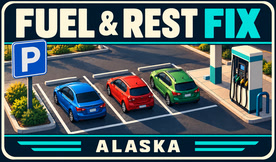
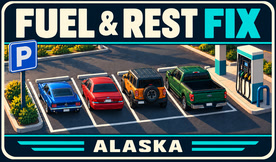
Apply selected four-Ford artwork to all map fixes and release r6 metadata
Use M2D for seven map-labelled combined fuel/rest presets, preserve exact selected ATS Expansion artwork, and advance combined CLI/description defaults to r6. Keep legacy fuel r2 and the existing courier r1 archive unchanged; J3B remains a tentative favorite.

Prepare a metadata-only eight-mod handoff without touching live profiles or inputs. Root and independent Luna checks confirm all map gameplay resources match r5 and courier r1 is byte-identical. Preserve previous outputs and original generation provenance.

Verification: 56 focused metadata/workflow/CLI tests pass; seven JPEGs decode and validate; bundle CRC/SHA/inventory and documentation QA pass. Gameplay prices, rest and deliveries remain manual tests.

diff --git a/src/ats_road_trip/cli.py b/src/ats_road_trip/cli.py
@@ -86,7 +86,7 @@ def parser() -> argparse.ArgumentParser:
         bulk.add_argument('--game-dir', help='ATS installation; otherwise ATS_GAME_DIR or detected Steam location')
         bulk.add_argument('--map-name', help='Short map name; inferred for known map families')
         if name != 'analyze-map':
-            bulk.add_argument('--revision', type=int, default=2 if name == 'generate-map-fuel' else 5)
+            bulk.add_argument('--revision', type=int, default=2 if name == 'generate-map-fuel' else 6)
         bulk.add_argument('--run-id', help='Run folder timestamp YYYY-MM-DD_HH-MM-SS (Europe/Warsaw)')
         bulk.add_argument('--dependency', action='append', default=[], help='Explicit additional package, lowest priority first')
         bulk.add_argument('--petrol-reference', default=DEFAULT_REFERENCE,

diff --git a/tests/test_cli.py b/tests/test_cli.py
@@ -152,7 +152,7 @@ company_def : .city { city: test_city prefab: alias }
         options = parser().parse_args(['generate-map-fix', 'source.scs', '--experimental',
                                        '--processor', 'rest', '--processor', 'fuel',
                                        '--rest-radius', '750'])
-        self.assertEqual(options.revision, 5)
+        self.assertEqual(options.revision, 6)
         self.assertEqual(options.processor, ['rest', 'fuel'])
         self.assertEqual(options.rest_radius, 750)
         result = {'status': 'generated', 'output': 'generated.scs',

diff --git a/src/ats_road_trip/bulk_run.py b/src/ats_road_trip/bulk_run.py
@@ -180,7 +180,7 @@ def _write_audit(path: Path, audit: dict) -> None:
 
 
 def generate_map_fix(source, *, processors=(Processor.FUEL,), game_dir=None,
-                     map_name=None, revision=5, run_id=None, extractor=None,
+                     map_name=None, revision=6, run_id=None, extractor=None,
                      dependency: list[str] = (), icon=None,
                      petrol_reference=DEFAULT_REFERENCE, rest_radius=1000,
                      _legacy_fuel=False, _analysis_only=False) -> dict:

diff --git a/src/ats_road_trip/mod_descriptions.py b/src/ats_road_trip/mod_descriptions.py
@@ -46,7 +46,7 @@ def map_description(
     map_name: str,
     topics: tuple[str, ...] = ('fuel', 'rest'),
     *,
-    version: str = '1.61-r5-experimental',
+    version: str = '1.61-r6-experimental',
     rest_radius: int = 1000,
 ) -> str:
     """Describe a map package without claiming untested gameplay results."""

diff --git a/docs/project/CURRENT_STATE.md b/docs/project/CURRENT_STATE.md
@@ -10,9 +10,9 @@ The separate [Practical Courier Jobs generator](../reference/PRACTICAL_COURIER_G
 
 The [overnight delivery ZIP](../reference/OVERNIGHT_TEST_BATCH_1_61_R4.md) contains **eight mods**: seven source-specific **r4** map/connector fixes and separate Practical Courier Jobs **r0**. Map package totals are **2,331** added car fuel interactions, **1,254** car rest areas, **46** missing petrol fields and **46** preserved classified aliases. Overlapping map sectors mean these are per-package totals. OtherMaps is price-only. Each fix replaces its older version directly above its own source.
 
-**246 authored tests pass** after the metadata implementation. The overnight r4/r0 delivery had 233 passing tests. Its independent checks preserve original source nodes/services, unchanged r2 fuel payloads, rest geometry/action bytes, actual source context tags and non-petrol country fields. The winning-stack graph passes for **2,202** surviving generated truck targets, with **3,518** reciprocal car services across 583 relevant effective paths. Generated namespaces have no conflicting paths/units. WCE's 380 Company records are byte-identical and all 14 company-parent aliases retain classification. Input identities and shared source versions are unchanged; ZIP CRC/checksums pass. [Batch evidence and installation/test instructions](../reference/OVERNIGHT_TEST_BATCH_1_61_R4.md), [TASK-0024](../tasks/done/TASK-0024-deliver-overnight-test-mod-batch.md).
+The last full authored suite passed **246 tests** after the r5/r1 metadata implementation. The overnight r4/r0 delivery had 233 passing tests. Its independent checks preserve original source nodes/services, unchanged r2 fuel payloads, rest geometry/action bytes, actual source context tags and non-petrol country fields. The winning-stack graph passes for **2,202** surviving generated truck targets, with **3,518** reciprocal car services across 583 relevant effective paths. Generated namespaces have no conflicting paths/units. WCE's 380 Company records are byte-identical and all 14 company-parent aliases retain classification. Input identities and shared source versions are unchanged; ZIP CRC/checksums pass. [Batch evidence and installation/test instructions](../reference/OVERNIGHT_TEST_BATCH_1_61_R4.md), [TASK-0024](../tasks/done/TASK-0024-deliver-overnight-test-mod-batch.md).
 
-**Observed locally — metadata refresh, 2026-10-18:** the [r5 map / r1 courier refresh](../reference/MOD_METADATA_REFRESH_1_61_R5.md) is a new eight-package handoff for icons, player descriptions, version labels and reports. The user selected the M2 navy map icon with a pump, parking symbol and three cars. The user confirms the Windows-local HTML gallery now works after both Markdown and native gallery failures. J3B is the courier favorite, with reservations about the key fob; the final choice is pending and J1B remains the existing provisional preset. New M2C/M2D proposals correct the Victoria to 2006 and add Bronco 2024 in the four-car option; no new package or default replacement is included in that round. Root and independent Luna review confirm every gameplay resource path and byte is identical to r4/r0. Old outputs are preserved. [TASK-0025](../tasks/active/TASK-0025-refresh-mod-icons-and-player-descriptions.md) and [ADR-0013](../architecture/decisions/ADR-0013-topic-artwork-and-player-descriptions.md) track the change.
+**Documented — user artwork choice, 2026-10-18:** the [r6 map / r1 courier handoff](../reference/MOD_METADATA_REFRESH_1_61_R6.md) applies the selected M2D navy icon, with pump, parking symbol and four Ford cars, to all seven map presets. Earlier three-car M2 and corrected M2C alternatives remain [r5 artwork history](../reference/MOD_METADATA_REFRESH_1_61_R5.md). The user confirmed both corrected previews display in chat and appreciated the Windows-local HTML gallery. J3B is the courier favorite, with reservations about the key fob; no final courier swap was approved, so the exact existing J1B-based r1 archive is reused. R6 changes map artwork, metadata and revision only; root and independent Luna checks confirm gameplay paths and bytes match the accepted r5 packages, while the full courier r1 archive is byte-identical. R5/r1 gameplay paths and bytes were independently verified identical to r4/r0. Old outputs remain preserved. [TASK-0025](../tasks/active/TASK-0025-refresh-mod-icons-and-player-descriptions.md) and [ADR-0013](../architecture/decisions/ADR-0013-topic-artwork-and-player-descriptions.md) track the change.
 
 Initial broad rest runs exposed original irregular shapes and older exact trigger layouts. Those failed attempts remain ignored and uninstalled. Supported source layouts now retain raw geometry/flags and change only validated action references; the single irregular ATS truck placement uses a disclosed conservative proximity fallback. [ADR-0012](../architecture/decisions/ADR-0012-preserve-irregular-source-rest-geometry.md) records that implementation decision, distinct from the user's boundary approximation.
 
@@ -20,7 +20,7 @@ Initial broad rest runs exposed original irregular shapes and older exact trigge
 
 ## Tooling and scope
 
-- `generate-map-fix SOURCE --processor fuel --processor rest --experimental` composes selected topics and defaults to revision **5**. Either topic can run alone. Combined outputs use the seven map-specific icons by default; rest-only packages have no default icon. Each fix replaces its source's earlier fix; independently generated sector overrides do not merge. [Processor guide](../reference/COMPATIBILITY_PROCESSORS.md).
+- `generate-map-fix SOURCE --processor fuel --processor rest --experimental` composes selected topics and defaults to revision **6**. Either topic can run alone. Combined outputs use the seven M2D map-specific icons by default; rest-only packages have no default icon. Each fix replaces its source's earlier fix; independently generated sector overrides do not merge. [Processor guide](../reference/COMPATIBILITY_PROCESSORS.md).
 - `generate-courier-eligibility --config docs/examples/mustang-practical-courier.toml --experimental` defaults to revision **1** and accepts an explicit `--icon` override. Its default icon and description are separate from map fixes. [Courier guide](../reference/PRACTICAL_COURIER_GENERATOR.md).
 - Rest adds car permission locally when no original car area is found within **1,000 game-world XZ units**. The source-sector/halo search is bounded; the user accepts extra permissions from missed boundary neighbors. Shared actions and original geometry remain unchanged; unsupported source edits block publication.
 - `generate-map-fuel` retains its fuel-only revision-2 default. Positive petrol values use lower same-unit provenance or the explicit stock-game ratio, preserving diesel/other fields. [ADR-0007](../architecture/decisions/ADR-0007-repair-missing-petrol-prices.md).
@@ -31,7 +31,7 @@ Initial broad rest runs exposed original irregular shapes and older exact trigge
 
 **Documented — user reports, 2026-10-17/18:** the same-position Helena sample 2 works for both truck and car. Broad Canadian car access works, but the user observed invalid quantity/zero-price displays. [Gameplay evidence](../reference/VALIDATION_RESULTS.md). Finite positive country definitions do not establish repaired UI or billing.
 
-**Unknown:** actual r4/r5 car/truck fuel purchases, quantities/payment, garage behavior, rest prompts/fatigue recovery, save/reload and r0/r1 courier offers/completed deliveries. Metadata checks cannot settle these gameplay questions. [Manual checklist](../reference/MANUAL_TEST_CHECKLIST.md) and [TASK-0007](../tasks/active/TASK-0007-validate-courier-and-fuel-experiments-in-game.md) remain open. The user is testing independently; remind them at package handoffs. Existing one-time reminder: **2026-10-18 18:00 Europe/Warsaw**.
+**Unknown:** actual r4/r5/r6 car/truck fuel purchases, quantities/payment, garage behavior, rest prompts/fatigue recovery, save/reload and r0/r1 courier offers/completed deliveries. Metadata checks cannot settle these gameplay questions. [Manual checklist](../reference/MANUAL_TEST_CHECKLIST.md) and [TASK-0007](../tasks/active/TASK-0007-validate-courier-and-fuel-experiments-in-game.md) remain open. The user is testing independently; remind them at package handoffs. Existing one-time reminder: **2026-10-18 18:00 Europe/Warsaw**.
 
 Each map fix belongs directly above its own source. [Confirmed source priority](../reference/CONNECTOR_FUEL_FIXES.md) places ProMods above Western Canada and includes both connectors. Generation dependencies and installation order are separate checks. Two shown branding/traffic mods remain unsupplied and uninspected.
 

diff --git a/assets/mod-icons/PROMPTS_M2D_SELECTED.md b/assets/mod-icons/PROMPTS_M2D_SELECTED.md
@@ -1,0 +1,56 @@
+# Selected M2D map-label prompts
+
+Created and inspected: 2026-10-18. User explicitly selected M2D with four Ford vehicles and confirmed both corrected previews display in chat; the local HTML gallery also works. The selection replaces the initial M2 preset for combined map fixes. Courier J3B remains a favorite with a key-fob reservation, not approved; J1B-based r1 remains unchanged.
+
+Built-in imagegen, six footer-only edit requests below. Input: inspected `local_outputs/work/2026-10-18_16-10-22/artwork/m2d-4-fords-original.png`. ATS Expansion reuses the exact selected export. Other map labels are individual reviewed edits. Large originals and machine provenance: ignored `local_outputs/work/2026-10-18_16-16-22/artwork/`. Final FFmpeg export performs format/downscale only (276x162, Lanczos, JPEG quality 2, yuvj444p). Runtime generation reuses tracked JPEG bytes without LLM calls.
+
+Original four-car prompt and model-year sources: [corrected Ford prompts](PROMPTS_V3.md).
+
+## REFORMA
+
+Export: `map-compatibility/reforma.jpg`.
+
+```text
+Use case: text-localization. Edit target: the supplied user-selected M2D finished navy fuel/parking mod illustration. Change ONLY its bottom footer map label from "ATS EXPANSION" to exactly "REFORMA". Where slash appears in requested label, render two centered lines instead of slash. Preserve all other artwork: headline "FUEL & REST FIX", navy/cream/teal palette, frame, pump, blue P sign, station location, elevated rear camera and four parking bays with blue 1967 Mustang, red 2006 Crown Victoria sedan, orange 2024 Bronco with rear spare tire, green 2023 F-150 pickup. Keep all four cars facing the far/front ends of the bays, wheel stops there only and clear reversing space behind cars. Do not change, remove, rotate or add vehicles or objects. Preserve landscape 276:162 aspect and safe margins. Footer bold and legible at 276x162. No added words or other changes.
+```
+
+## PROMODS CANADA
+
+Export: `map-compatibility/promods-canada.jpg`.
+
+```text
+Use case: text-localization. Edit target: the supplied user-selected M2D finished navy fuel/parking mod illustration. Change ONLY its bottom footer map label from "ATS EXPANSION" to exactly "PROMODS CANADA". Where slash appears in requested label, render two centered lines instead of slash. Preserve all other artwork: headline "FUEL & REST FIX", navy/cream/teal palette, frame, pump, blue P sign, station location, elevated rear camera and four parking bays with blue 1967 Mustang, red 2006 Crown Victoria sedan, orange 2024 Bronco with rear spare tire, green 2023 F-150 pickup. Keep all four cars facing the far/front ends of the bays, wheel stops there only and clear reversing space behind cars. Do not change, remove, rotate or add vehicles or objects. Preserve landscape 276:162 aspect and safe margins. Footer bold and legible at 276x162. No added words or other changes.
+```
+
+## WESTERN CANADA
+
+Export: `map-compatibility/western-canada.jpg`.
+
+```text
+Use case: text-localization. Edit target: the supplied user-selected M2D finished navy fuel/parking mod illustration. Change ONLY its bottom footer map label from "ATS EXPANSION" to exactly "WESTERN CANADA". Where slash appears in requested label, render two centered lines instead of slash. Preserve all other artwork: headline "FUEL & REST FIX", navy/cream/teal palette, frame, pump, blue P sign, station location, elevated rear camera and four parking bays with blue 1967 Mustang, red 2006 Crown Victoria sedan, orange 2024 Bronco with rear spare tire, green 2023 F-150 pickup. Keep all four cars facing the far/front ends of the bays, wheel stops there only and clear reversing space behind cars. Do not change, remove, rotate or add vehicles or objects. Preserve landscape 276:162 aspect and safe margins. Footer bold and legible at 276x162. No added words or other changes.
+```
+
+## ALASKA
+
+Export: `map-compatibility/alaska.jpg`.
+
+```text
+Use case: text-localization. Edit target: the supplied user-selected M2D finished navy fuel/parking mod illustration. Change ONLY its bottom footer map label from "ATS EXPANSION" to exactly "ALASKA". Where slash appears in requested label, render two centered lines instead of slash. Preserve all other artwork: headline "FUEL & REST FIX", navy/cream/teal palette, frame, pump, blue P sign, station location, elevated rear camera and four parking bays with blue 1967 Mustang, red 2006 Crown Victoria sedan, orange 2024 Bronco with rear spare tire, green 2023 F-150 pickup. Keep all four cars facing the far/front ends of the bays, wheel stops there only and clear reversing space behind cars. Do not change, remove, rotate or add vehicles or objects. Preserve landscape 276:162 aspect and safe margins. Footer bold and legible at 276x162. No added words or other changes.
+```
+
+## REFORMA + OTHERMAPS PATCH
+
+Export: `map-compatibility/reforma-othermaps-patch.jpg`.
+
+```text
+Use case: text-localization. Edit target: the supplied user-selected M2D finished navy fuel/parking mod illustration. Change ONLY its bottom footer map label from "ATS EXPANSION" to exactly "REFORMA / OTHERMAPS PATCH". Where slash appears in requested label, render two centered lines instead of slash. Preserve all other artwork: headline "FUEL & REST FIX", navy/cream/teal palette, frame, pump, blue P sign, station location, elevated rear camera and four parking bays with blue 1967 Mustang, red 2006 Crown Victoria sedan, orange 2024 Bronco with rear spare tire, green 2023 F-150 pickup. Keep all four cars facing the far/front ends of the bays, wheel stops there only and clear reversing space behind cars. Do not change, remove, rotate or add vehicles or objects. Preserve landscape 276:162 aspect and safe margins. Footer bold and legible at 276x162. No added words or other changes.
+```
+
+## WCE + PROMODS + CONNECTIONS
+
+Export: `map-compatibility/western-canada-promods-connections.jpg`.
+
+```text
+Use case: text-localization. Edit target: the supplied user-selected M2D finished navy fuel/parking mod illustration. Change ONLY its bottom footer map label from "ATS EXPANSION" to exactly "WCE + PROMODS / CONNECTIONS". Where slash appears in requested label, render two centered lines instead of slash. Preserve all other artwork: headline "FUEL & REST FIX", navy/cream/teal palette, frame, pump, blue P sign, station location, elevated rear camera and four parking bays with blue 1967 Mustang, red 2006 Crown Victoria sedan, orange 2024 Bronco with rear spare tire, green 2023 F-150 pickup. Keep all four cars facing the far/front ends of the bays, wheel stops there only and clear reversing space behind cars. Do not change, remove, rotate or add vehicles or objects. Preserve landscape 276:162 aspect and safe margins. Footer bold and legible at 276x162. No added words or other changes.
+```
+

diff --git a/assets/mod-icons/README.md b/assets/mod-icons/README.md
@@ -2,31 +2,31 @@
 
 ## Current fuel/rest and courier proposals
 
-Created and inspected: 2026-10-18. **User selection for the next map batch: M2**, the navy/cream/teal frame with three parked cars, pump and parking sign. M2A/M2B are further requested Ford alternatives; they have not replaced the chosen M2. Courier **J1B is provisional**, with the choice among J1B/J2B/J3B still open. The user explicitly requested the courier headline `JOB TYPES COMPAT`.
+Created and inspected: 2026-10-18. **Current map selection: M2D**, the navy/cream/teal frame with pump/P sign and all four Ford vehicles. It replaces the initial three-car M2 selection in map r6; earlier alternatives remain as history. Courier **J1B is provisional**, with the choice among J1B/J2B/J3B still open. The user explicitly requested the courier headline `JOB TYPES COMPAT`.
 
-**Documented — later user feedback, 2026-10-18:** the Windows-local HTML gallery displays successfully. J3B is the courier favorite, with reservations about its car-like key fob; it is not final approval. The existing provisional preset/package stays J1B. Corrected M2C/M2D retain M2A's rear-view parking layout, use Crown Victoria 2006, and add Bronco 2024 in the four-car option. No new mod package or default icon replacement is made in this proposal round.
+**Documented — later user feedback, 2026-10-18:** the Windows-local HTML gallery displays successfully. J3B is the courier favorite, with reservations about its car-like key fob; it is not final approval. The existing provisional preset/package stays J1B. Corrected M2C/M2D retain M2A's rear-view parking layout, use Crown Victoria 2006, and add Bronco 2024 in the four-car option. That proposal round did not change packages. The user subsequently selected M2D and confirmed both new previews display in chat; the seven combined presets and map r6 packages now use M2D.
 
 | Label | Small export | Motif / status |
 | --- | --- | --- |
 | M1 | [JPEG](proposals-v2/m1.jpg) | Green frame, two cars and parking sign |
-| M2 | [JPEG](proposals-v2/m2.jpg) | Navy frame, three parking bays and pump; selected |
+| M2 | [JPEG](proposals-v2/m2.jpg) | Navy frame, three parking bays and pump; initial r5 selection |
 | M3 | [JPEG](proposals-v2/m3.jpg) | Green frame, four parked cars |
 | M2A | [JPEG](proposals-v3/m2a.jpg) | Historical rear-view proposal; wrong 1956 Victoria |
 | M2B | [JPEG](proposals-v3/m2b.jpg) | Historical front-view proposal; wrong Victoria and obstructive wheel-stop layout |
 | M2C | [JPEG](proposals-v4/m2c-3-fords.jpg) | M2A location/direction; Mustang 1967, Crown Victoria 2006, F-150 2023 |
-| M2D | [JPEG](proposals-v4/m2d-4-fords.jpg) | Four-car version with Bronco 2024 and clear reversing space |
+| M2D | [JPEG](proposals-v4/m2d-4-fords.jpg) | Four-car version with Bronco 2024 and clear reversing space; selected for r6 |
 | J1 / J1B | [Original](proposals-v2/j1.jpg) / [new headline](proposals-v3/j1b.jpg) | Green frame, red Mustang, landscape; J1B provisional |
 | J2 / J2B | [Original](proposals-v2/j2.jpg) / [new headline](proposals-v3/j2b.jpg) | Navy/gold, cream Mustang, route and parcel |
 | J3 | [JPEG](proposals-v2/j3.jpg) | Cream/green original alternative |
 | J3B | [JPEG](proposals-v3/j4.jpg) | New navy/teal checklist, red Mustang; current favorite, not final selection |
 
-The seven [combined-map presets](map-compatibility/) reuse M2 with each map/connector's own footer. The separate [courier preset](practical-courier-jobs.jpg) currently copies J1B. These are original project artwork, not copied game assets. The art is illustrative, not an authoritative specification of vehicle geometry or cargo capacity. OtherMaps uses shared family art while its description states its price-only scope.
+The seven [combined-map presets](map-compatibility/) reuse M2D with each map/connector's own footer. The separate [courier preset](practical-courier-jobs.jpg) currently copies J1B. These are original project artwork, not copied game assets. The art is illustrative, not an authoritative specification of vehicle geometry or cargo capacity. OtherMaps uses shared family art while its description states its price-only scope.
 
-[Initial prompts](PROMPTS_V2.md) and [corrected Ford prompts with year evidence](PROMPTS_V3.md) record built-in imagegen requests. Root prepared the art; Sol handled bounded description work and Luna reviewed selection and packages. All imagery/text edits used imagegen; FFmpeg performed only final size/format export (276x162, Lanczos, JPEG quality 2, yuvj444p). Every packaged export was decoded, visually reviewed at native size and validated by the writer. Large source PNGs and machine provenance remain ignored under `local_outputs/work/2026-10-18_15-24-10/artwork/` and `local_outputs/work/2026-10-18_16-10-22/artwork/`.
+[Initial prompts](PROMPTS_V2.md), [corrected Ford prompts with year evidence](PROMPTS_V3.md) and [selected M2D footer prompts](PROMPTS_M2D_SELECTED.md) record built-in imagegen requests. Root prepared the art; Sol handled bounded description work and Luna reviewed selection and packages. All imagery/text edits used imagegen; FFmpeg performed only final size/format export (276x162, Lanczos, JPEG quality 2, yuvj444p). Every packaged export was decoded, visually reviewed at native size and validated by the writer. Large source PNGs and machine provenance remain ignored under `local_outputs/work/2026-10-18_15-24-10/artwork/`, `local_outputs/work/2026-10-18_16-10-22/artwork/` and `local_outputs/work/2026-10-18_16-16-22/artwork/`.
 
 **Observed locally — user report, 2026-10-18:** Markdown references to local Linux image paths displayed broken-image placeholders. The user did see the six map-footer previews returned as tool image content. Variants were therefore re-presented as actual tool image content; final client visibility/choice was pending at handoff. The user then reported another failed gallery display. Copies in the Windows visualization directory plus a local HTML gallery finally worked, explicitly confirmed by the user. Use that gallery for further comparisons. Do not infer approval from an invisible image or a preselected question option.
 
-[Metadata-only r5/r1 handoff](../../docs/reference/MOD_METADATA_REFRESH_1_61_R5.md) and [artwork/description decision](../../docs/architecture/decisions/ADR-0013-topic-artwork-and-player-descriptions.md).
+[Current r6/r1 handoff](../../docs/reference/MOD_METADATA_REFRESH_1_61_R6.md), [historical r5/r1 handoff](../../docs/reference/MOD_METADATA_REFRESH_1_61_R5.md) and [artwork/description decision](../../docs/architecture/decisions/ADR-0013-topic-artwork-and-player-descriptions.md).
 
 ## Historical fuel-only artwork
 

diff --git a/docs/reference/MOD_METADATA.md b/docs/reference/MOD_METADATA.md
@@ -1,10 +1,10 @@
 # Generated mod metadata
 
-Updated: 2026-10-18. Applies to this prototype's ATS 1.61 map and Practical Courier Jobs packages. [ADR-0005](../architecture/decisions/ADR-0005-standardize-fuel-package-metadata.md) records the original fuel policy; [ADR-0013](../architecture/decisions/ADR-0013-topic-artwork-and-player-descriptions.md) covers the current topic-specific artwork and player descriptions. The [r5/r1 refresh](MOD_METADATA_REFRESH_1_61_R5.md) records the new handoff and package comparison.
+Updated: 2026-10-18. Applies to this prototype's ATS 1.61 map and Practical Courier Jobs packages. [ADR-0005](../architecture/decisions/ADR-0005-standardize-fuel-package-metadata.md) records the original fuel policy; [ADR-0013](../architecture/decisions/ADR-0013-topic-artwork-and-player-descriptions.md) covers topic-specific artwork and player descriptions. The [r6/r1 handoff](MOD_METADATA_REFRESH_1_61_R6.md) records the current bundle and package comparison; the [r5/r1 refresh](MOD_METADATA_REFRESH_1_61_R5.md) remains historical.
 
-The general [processor command](COMPATIBILITY_PROCESSORS.md) uses `Gas Stations Fix` for fuel-only, `Rest Stops Fix` for rest-only, and `Map Compatibility Fix` for fuel plus rest, retaining `szczerb's Road Trip ... for <short map name>` and author `szczerb`. Its current default is `1.61-r5-experimental`; the legacy fuel command remains r2. The report records selected `fix_topics`. Combined packages use reviewed map-specific 276x162 JPEG icons from `assets/mod-icons/map-compatibility/<map-slug>.jpg` for the seven supplied map/connector names. Fuel-only packages retain historical artwork selection; rest-only packages have no automatic icon. An explicit valid `--icon` overrides the default. [ADR-0008](../architecture/decisions/ADR-0008-compose-processors-and-local-rest-polygons.md).
+The general [processor command](COMPATIBILITY_PROCESSORS.md) uses `Gas Stations Fix` for fuel-only, `Rest Stops Fix` for rest-only, and `Map Compatibility Fix` for fuel plus rest, retaining `szczerb's Road Trip ... for <short map name>` and author `szczerb`. Its current default is `1.61-r6-experimental`; the legacy fuel command remains r2. The report records selected `fix_topics`. Combined packages use the user-selected M2D four-Ford map-specific 276x162 JPEG icons from `assets/mod-icons/map-compatibility/<map-slug>.jpg` for the seven supplied map/connector names. Fuel-only packages retain historical artwork selection; rest-only packages have no automatic icon. An explicit valid `--icon` overrides the default. [ADR-0008](../architecture/decisions/ADR-0008-compose-processors-and-local-rest-polygons.md).
 
-The standalone [Practical Courier Jobs](PRACTICAL_COURIER_GENERATOR.md) package uses `szczerb's Road Trip Practical Courier Jobs`, author `szczerb`, category `other`, default `1.61-r1-experimental`, and a descriptive `...practical-courier-jobs-muscle-1.61-r1-experimental.scs` filename. It uses `assets/mod-icons/practical-courier-jobs.jpg` by default and accepts `--icon`; it does not imply a source map dependency. The courier artwork is provisional pending the user's selection among previews.
+The standalone [Practical Courier Jobs](PRACTICAL_COURIER_GENERATOR.md) package uses `szczerb's Road Trip Practical Courier Jobs`, author `szczerb`, category `other`, default `1.61-r1-experimental`, and a descriptive `...practical-courier-jobs-muscle-1.61-r1-experimental.scs` filename. It uses `assets/mod-icons/practical-courier-jobs.jpg` by default and accepts `--icon`; it does not imply a source map dependency. The existing J1B-based r1 archive is reused byte-for-byte in the r6 bundle. J3B is the user's favorite preview, with a key-fob reservation; no courier icon swap has been approved.
 
 The new UTF-8 descriptions use short player-facing paragraphs and actual line breaks. Map packages explain only their selected fuel/rest behavior, source-relative load order and pending in-game checks. The supplied map combination lists all seven fixes directly above their own sources, including the four ProMods components and Reforma Mega Resources; optional background and job mods are labelled. Exactly one line identifies the current package with `[THIS MOD]`. The OtherMaps fix explicitly says it changes country petrol prices only. Unknown custom maps receive a direct-above-own-source instruction and the known combination as an example. The courier description explains the reviewed stock jobs, unchanged transfers, shared Quick Jobs and muscle-class effects, separate Food/Medical/Rideshare resources, and the remaining runtime checks.
 
@@ -38,6 +38,6 @@ Names are encoded as quoted strings; empty/nonprintable map names, edge whitespa
 
 **Observed locally — user screenshot, 2026-10-17:** `Zrzut ekranu 2026-10-17 212256.png` shows the old sample-2 name, research author, `0.1.0-experimental` and default ATS artwork. The agent opened the original through its `<LOCAL_SCREENSHOT_PATH>` path. It documents old presentation, not a fuel transaction.
 
-**Documented — user instruction, 2026-10-17:** the name, author, game-based revision convention and temporary experimental suffix are project requirements. The original fuel-only icon should show a simple pump/nozzle and passenger car(s), `GAS STATIONS FIX` at the top and map name below. The historical sample changed only one reviewed station near Helena. Neither its title nor `1.61.*` expanded that recipe's coverage. The later combined-map artwork uses the selected M2 navy frame, pump, parking symbol and three cars, with each short map name; the separate courier headline is `JOB TYPES COMPAT`.
+**Documented — user instructions, 2026-10-17/18:** the name, author, game-based revision convention and temporary experimental suffix are project requirements. The original fuel-only icon should show a simple pump/nozzle and passenger car(s), `GAS STATIONS FIX` at the top and map name below. The historical sample changed only one reviewed station near Helena. Neither its title nor `1.61.*` expanded that recipe's coverage. Combined-map r5 used the M2 navy frame, pump, parking symbol and three cars. The user selected corrected M2D with four Ford cars for r6 across all seven map presets. The separate courier headline is `JOB TYPES COMPAT`; J1B remains provisional.
 
 Artwork provenance, prompts and proposals are recorded in the [icon asset guide](../../assets/mod-icons/README.md). Same-position payload details and reproduction are in the [sample-2 guide](OVERLAPPING_FUEL_SAMPLE.md).

diff --git a/docs/tasks/active/TASK-0025-refresh-mod-icons-and-player-descriptions.md b/docs/tasks/active/TASK-0025-refresh-mod-icons-and-player-descriptions.md
@@ -42,7 +42,7 @@ Prepare map fuel/rest and Mustang courier icon proposals, restore suitable packa
 
 # Verification
 
-Implementation and package verification completed; final artwork selection remains pending; the user confirms the Windows-local HTML gallery displays correctly. Work and original artwork: `local_outputs/work/2026-10-18_15-24-10/`. Built-in image outputs existed but failed to render in the app; proposals were exported to project-local JPEGs and shown using standard Markdown image paths. The user subsequently confirmed seeing the six map-footer tool previews while Markdown variants still failed. The five requested variants were re-presented as actual tool image content. The user then reported the native gallery still failed; Windows-local copies and an HTML gallery succeeded, explicitly confirmed. J3B is now the favorite, not a final selection. M2 remains the selected existing map preset, J1B provisional for courier. Requested M2C/M2D proposals correct the Victoria to 2006 and add the Bronco 2024; they retain M2A's location/direction and unobstructed reversing space. No default/package replacement is inferred from this proposal request.
+Implementation and package verification completed; final courier artwork selection remains pending; M2D is now explicitly selected for maps. The user confirms corrected variants display both in chat and the Windows-local HTML gallery. Work and original artwork: `local_outputs/work/2026-10-18_15-24-10/`. Built-in image outputs existed but failed to render in the app; proposals were exported to project-local JPEGs and shown using standard Markdown image paths. The user subsequently confirmed seeing the six map-footer tool previews while Markdown variants still failed. The five requested variants were re-presented as actual tool image content. The user then reported the native gallery still failed; Windows-local copies and an HTML gallery succeeded, explicitly confirmed. J3B is now the favorite, not a final selection. M2 remains the selected existing map preset, J1B provisional for courier. Requested M2C/M2D proposals correct the Victoria to 2006 and add the Bronco 2024; they retain M2A's location/direction and unobstructed reversing space. No default/package replacement is inferred from this proposal request.
 
 - All 246 tests pass, including seven description tests, five delegated artwork selector tests and the new courier default/explicit artwork packaging test. Full log: `full-tests.log` in the run.
 - Root and independent Luna checks pass for eight source/output gameplay dictionaries and embedded hashes, source archive SHA, CRCs, all icon dimensions/bytes, descriptions, exactly one current marker, map/source order and the nine-entry delivery ZIP. Evidence: `delivery-result.json` and `independent-review.json`. Only four metadata paths differ from r4/r0.
@@ -52,8 +52,11 @@ Implementation and package verification completed; final artwork selection remai
 
 - Additional read-only Luna review confirms Substation Access Keys job/cargo IDs, exclusion of all nine vehicle transfers, and the installed 2006/2024 vehicle series. Two new imagegen proposals pass JPEG writer validation and FFmpeg decoding; originals and export provenance are under `local_outputs/work/2026-10-18_16-10-22/artwork/`. No utility code changed or gameplay tests were required.
 
+- M2D acceptance: six new footer-only imagegen edits plus exact ATS Expansion selected JPEG now supply all seven combined presets. Map r6 generation defaults and descriptions advance together; 56 focused metadata/CLI/workflow tests pass. Seven JPEGs decode/validate and gameplay inventories remain byte-identical to r5. Courier r1 is copied byte-for-byte; no J3B swap is inferred. Independent Luna checks confirm the seven map packages, exact ATS Expansion selected icon, unchanged courier archive and outer ZIP inventory/CRC/SHA. Documentation QA passes 726 links, 25 task records, 12 unchanged input identities and 26 artifact exclusions. New run: `local_outputs/work/2026-10-18_16-16-22/`.
+
 # Links
 
+- [Selected M2D r6/r1 handoff](../../reference/MOD_METADATA_REFRESH_1_61_R6.md)
 - [Metadata refresh](../../reference/MOD_METADATA_REFRESH_1_61_R5.md)
 - [Existing delivery](../../reference/OVERNIGHT_TEST_BATCH_1_61_R4.md)
 - [Metadata contract](../../reference/MOD_METADATA.md)

diff --git a/docs/reference/MOD_METADATA_REFRESH_1_61_R6.md b/docs/reference/MOD_METADATA_REFRESH_1_61_R6.md
@@ -1,0 +1,27 @@
+# Selected M2D artwork: map r6 and unchanged courier r1
+
+**Documented — user selection, 2026-10-18:** use M2D, the navy fuel/parking icon with Mustang 1967, Crown Victoria 2006, Bronco 2024 and F-150 2023, for map fixes. The user confirms both corrected previews display in chat and the Windows-local HTML gallery is useful. J3B remains the courier favorite with a key-fob reservation; no final courier replacement is approved.
+
+**Observed locally — ATS 1.61.3.18 project, inspected 2026-10-18:** all seven map presets now use M2D with the matching map/connector footer. The current generator default is map revision **6**. Legacy fuel remains r2 and courier remains r1. [Original corrected model prompts](../../assets/mod-icons/PROMPTS_V3.md), [selected map-label edit prompts](../../assets/mod-icons/PROMPTS_M2D_SELECTED.md).
+
+## Delivery
+
+Eight-mod ZIP (local artifact, excluded from Git: `local_outputs/generated/2026-10-18_16-16-22/szczerbs-road-trip-test-batch-ats-1.61-map-r6-courier-r1-experimental.zip`), **68,459,553 bytes**.
+
[1 lines of base64/hex data omitted]
+
+The ZIP contains seven **r6** map/connector `.scs` files, the exact unchanged **r1** Practical Courier Jobs archive from the [r5/r1 delivery](MOD_METADATA_REFRESH_1_61_R5.md), and `README.txt`. Map fixes change only their icon, version-labelled description, manifest revision and report provenance. The courier archive retains provisional J1B artwork. J3B preference has not silently changed the courier preset or archive.
+
+Disable the earlier copy of each map fix when replacing it. Keep each fix directly above its own source, using the full order in the descriptions/README. An existing r4/r5 gameplay test does not need to be interrupted. No live installation or profile modification occurred.
+
+## Verification and limits
+
+**Observed locally — 2026-10-18:** source and output ZIP CRCs, duplicate-path checks, full gameplay resource dictionaries and embedded hash inventories pass for all seven map packages. Every generated resource path and byte is identical to r5; r5 was independently checked against the original r4 gameplay batch. The entire courier archive is byte-identical to the previously delivered r1. OtherMaps remains price-only. The outer ZIP contains exactly eight mods plus README and passes CRC and SHA verification.
+
+All seven preset JPEGs pass writer validation and FFmpeg decoding at **276x162**. They were visually inspected after export; ATS Expansion reuses the selected M2D JPEG exactly. The other six footer-only imagegen edits preserve four-car composition, parking direction, free reversing space, pump/P sign and title. Runtime packaging uses static tracked bytes. Imagegen was used for art preparation; FFmpeg only performed final format/downscale exports.
+
+The **56 focused metadata, artwork, writer, bulk-workflow and CLI tests pass** for this update. The last complete suite remains **246 tests**, recorded in the r5 milestone. No utility gameplay algorithms changed. Work, large artwork originals, exact generation records, source candidates, delivery fingerprints and comparison results are retained under ignored `local_outputs/work/2026-10-18_16-16-22/`. An independent GPT-6 Luna review confirms package equality, exact selected ATS artwork, unchanged courier bytes, manifest/description metadata and bundle inventory/CRC/SHA. Documentation QA passes for 92 Markdown files, 726 links, 26 heading fragments, 25 task records, all 12 unchanged input identities and 26 artifact exclusions. Evidence is recorded in the same run.
+
+**Unknown — gameplay:** fuel quantity/price/payment, car rest/fatigue recovery and Mustang job pickup/cargo fit/completed delivery remain under the existing [manual checklist](MANUAL_TEST_CHECKLIST.md) and [TASK-0007](../tasks/active/TASK-0007-validate-courier-and-fuel-experiments-in-game.md). Artwork selection and byte preservation do not settle these tests.
+
+Related: [metadata contract](MOD_METADATA.md), [current state](../project/CURRENT_STATE.md), [artwork guide](../../assets/mod-icons/README.md), [TASK-0025](../tasks/active/TASK-0025-refresh-mod-icons-and-player-descriptions.md).

diff --git a/README.md b/README.md
@@ -2,7 +2,7 @@
 
 A research utility for American Truck Simulator: inspect map archives, report Road Trip courier inputs, generate passenger-car fuel/rest map fixes, and separately broaden reviewed courier job eligibility.
 
-**Current implementation:** selectable `fuel` and `rest` map processors, automatic missing petrol-price repair, and preservation of original prefab context classifications when cloning. A separate [Practical Courier Jobs generator](docs/reference/PRACTICAL_COURIER_GENERATOR.md) enables 58 reviewed cargo definitions for muscle-tagged cars, preserving all vehicle-transfer jobs. The [overnight r4/r0 test delivery](docs/reference/OVERNIGHT_TEST_BATCH_1_61_R4.md) has independent source/output checks and a verified combined stack. A [metadata refresh for r5/r1](docs/reference/MOD_METADATA_REFRESH_1_61_R5.md) adds map-specific icons and player-facing descriptions without changing the planned gameplay scope. **246 tests pass**; [current state](docs/project/CURRENT_STATE.md) tracks package verification and manual tests.
+**Current implementation:** selectable `fuel` and `rest` map processors, automatic missing petrol-price repair, and preservation of original prefab context classifications when cloning. A separate [Practical Courier Jobs generator](docs/reference/PRACTICAL_COURIER_GENERATOR.md) enables 58 reviewed cargo definitions for muscle-tagged cars, preserving all vehicle-transfer jobs. The [r6 map / r1 courier metadata handoff](docs/reference/MOD_METADATA_REFRESH_1_61_R6.md) uses the selected four-Ford map icon. The [r5/r1 metadata batch](docs/reference/MOD_METADATA_REFRESH_1_61_R5.md) and [overnight r4/r0 test delivery](docs/reference/OVERNIGHT_TEST_BATCH_1_61_R4.md) remain available as history. The last full authored suite passed **246 tests**; [current state](docs/project/CURRENT_STATE.md) tracks package verification and manual tests.
 
 Rest uses the user-selected 1,000 game-world-unit XZ proximity rule and a bounded source-sector/halo search. Original truck interactions, parking geometry and shared actions are preserved. [Courier map reporting](docs/reference/COURIER_REPORTING.md) remains read-only; general map courier generation is unsupported. Definition eligibility does not guarantee live offers or completed deliveries. Prices, billing, rest and courier behavior require [gameplay validation](docs/reference/MANUAL_TEST_CHECKLIST.md).
 
@@ -29,7 +29,7 @@ PYTHONPATH=src python3 -m ats_road_trip --help
 PYTHONPATH=src python3 -m unittest discover -s tests -v
 ```
 
-The [tooling guide](docs/reference/TOOLING.md) documents archive inspection/extraction, explicit package order and mounts, context audits, dependencies, and experimental generation. The [map-wide guide](docs/reference/MAP_WIDE_FUEL_GENERATOR.md) documents automatic companions, timestamped work/output directories and required source-relative load priority. Combined map packages now default to r5, Practical Courier Jobs to r1, and the legacy fuel command remains r2. Outputs contain a manifest, icon, player description and provenance/change report; they are not automatically installed.
+The [tooling guide](docs/reference/TOOLING.md) documents archive inspection/extraction, explicit package order and mounts, context audits, dependencies, and experimental generation. The [map-wide guide](docs/reference/MAP_WIDE_FUEL_GENERATOR.md) documents automatic companions, timestamped work/output directories and required source-relative load priority. Combined map packages now default to r6, Practical Courier Jobs to r1, and the legacy fuel command remains r2. Outputs contain a manifest, icon, player description and provenance/change report; they are not automatically installed.
 
 ## Project navigation
 

diff --git a/docs/reference/COMPATIBILITY_PROCESSORS.md b/docs/reference/COMPATIBILITY_PROCESSORS.md
@@ -37,7 +37,7 @@ config = ProcessorConfig(
 )
 ```
 
-The existing `generate-map-fuel` command retains fuel-only behavior and default revision 2. The general command defaults to revision 5 and uses names matching the selected topics: Gas Stations Fix, Rest Stops Fix, or Map Compatibility Fix. Author remains `szczerb`; all versions remain experimental. Combined fuel/rest output uses a reviewed map-specific icon for each of the seven supplied sources, selected from `assets/mod-icons/map-compatibility/<map-slug>.jpg`; an explicit valid `--icon` overrides it. Fuel-only output retains the historical icon selector. Rest-only output has no default icon. All packages get a topic-specific player description with source-relative priority and pending gameplay checks. [Metadata contract](MOD_METADATA.md) and [r5 refresh](MOD_METADATA_REFRESH_1_61_R5.md).
+The existing `generate-map-fuel` command retains fuel-only behavior and default revision 2. The general command defaults to revision 6 and uses names matching the selected topics: Gas Stations Fix, Rest Stops Fix, or Map Compatibility Fix. Author remains `szczerb`; all versions remain experimental. Combined fuel/rest output uses the selected M2D four-Ford map-specific icon for each of the seven supplied sources, selected from `assets/mod-icons/map-compatibility/<map-slug>.jpg`; an explicit valid `--icon` overrides it. Fuel-only output retains the historical icon selector. Rest-only output has no default icon. All packages get a topic-specific player description with source-relative priority and pending gameplay checks. [Metadata contract](MOD_METADATA.md) and [r6 handoff](MOD_METADATA_REFRESH_1_61_R6.md).
 
 Use **one generated fix per source map**. Select both topics in one run to retain both features. Independently generated rest-only and fuel-only packages can replace the same whole sector; placing one above the other does not merge their content. A combined package replaces that source's earlier fuel-only fix. Rest-only generation against the original source does not include previous fuel corrections and is not an add-on to the r2 fuel package.
 
@@ -71,7 +71,7 @@ Manual acceptance remains separate: car rest prompt with engine off, actual fati
 
 ## Verified Western Canada candidate
 
-Historical r3 result; the overnight r4 implementation preserves alias context inputs as described in [ADR-0010](../architecture/decisions/ADR-0010-preserve-contexts-for-generated-prefab-aliases.md). The r5 metadata refresh must retain those gameplay bytes. Runtime preservation remains unverified.
+Historical r3 result; the overnight r4 implementation preserves alias context inputs as described in [ADR-0010](../architecture/decisions/ADR-0010-preserve-contexts-for-generated-prefab-aliases.md). The r5 metadata refresh retained those gameplay bytes; the r6 map handoff must do the same. Runtime preservation remains unverified.
 
 **Later static finding, 2026-10-18:** [14 Company-parent aliases lose their original context mappings](COURIER_MARKER_RESEARCH.md#existing-generated-prefab-aliases-a-static-cross-feature-risk). The fuel/rest checks below do not establish courier preservation. Runtime effect remains unknown; [TASK-0019](../tasks/done/TASK-0019-preserve-contexts-for-generated-prefab-aliases.md) tracks the required preservation review. The historical candidate remains untouched; the overnight r4 packages include preservation.
 
